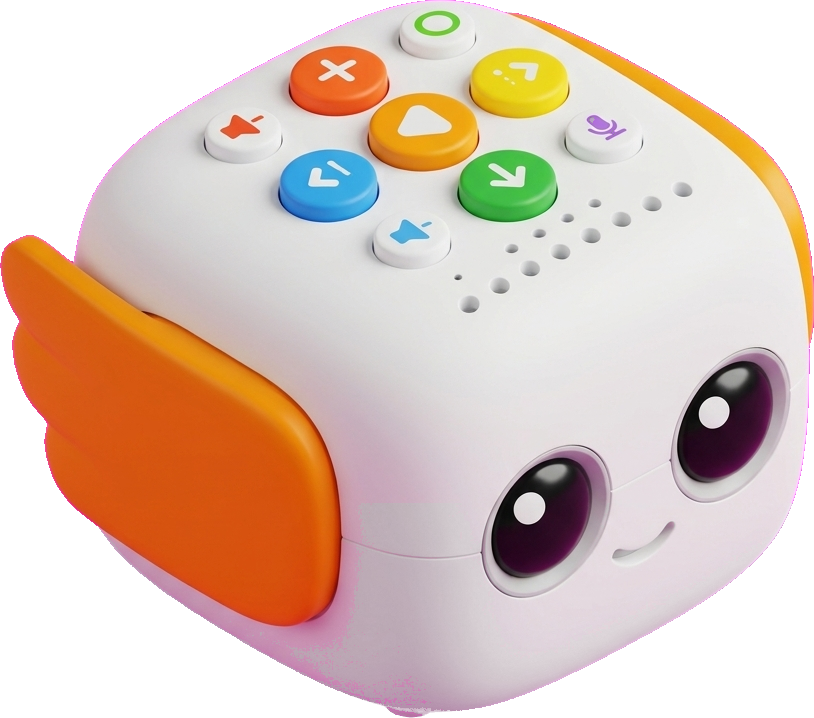
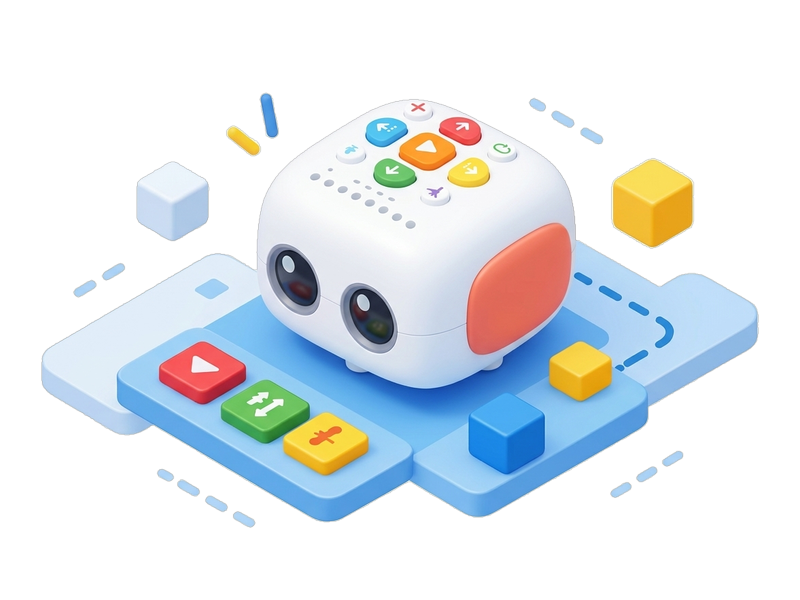
feat(art): apply Robòtica²⁰⁰ master style prompt with modular platform to Tale-Bot

diff --git a/robots/index.html b/robots/index.html
@@ -27,7 +27,7 @@
         </div>
       </div>
       <div class="robots-hero-media">
-        <img src="../_assets/banners/robots.jpg" alt="Robots d'Aula" class="robots-hero-img" width="800" height="600">
+        <img src="../_assets/banners/robotica.png" alt="Robots d'Aula" class="robots-hero-img" width="800" height="600">
       </div>
     </div>
   </div>

diff --git a/_css/styles.css b/_css/styles.css
@@ -807,8 +807,6 @@ guide-page {
   max-width: 100%;
   max-height: 280px;
   width: auto;
-  border-radius: 20px;
-  box-shadow: 0 10px 30px rgba(0, 0, 0, 0.07);
   object-fit: contain;
 }
 

diff --git a/STYLE_GUIDE.md b/STYLE_GUIDE.md
@@ -84,12 +84,71 @@ La identitat visual dels robots es defineix com una **il·lustració 3D isomètr
 8. **Fondo gráfico abstracto / Transparente:** En la web, el fondo de la imagen se aísla con canal alfa 100% transparente para montarse limpiamente sobre los fondos bicolores CSS.
 9. **Estética edtech contemporánea:** Lenguaje visual que recuerda a las ilustraciones de productos tecnológicos educativos punteros y landing pages de startups de tecnología y diseño (estilo Stripe / Linear / Duolingo / Vercel Kids).
 
-### 📝 Fórmula de Prompt Condensada (Estàndard Oficial):
+### 📝 Prompt Mestre d'Estil Robòtica²⁰⁰:
+
+Per mantenir **consistència estricta entre totes les il·lustracions**, el prompt es divideix en un **bloc fix d'estil** i un **bloc variable per al robot i la seva escena**:
+
 ```text
-Stylized 3D isometric educational robotics illustration of [Nom del Robot], cute toy-like robots, rounded geometry, simplified low-poly forms, matte plastic materials, soft studio lighting, vibrant solid colors, subtle shadows, isolated on solid white studio background, modern edtech aesthetic.
+Create a polished 3D isometric educational robotics illustration.
+
+STYLE:
+Stylized 3D toy-like illustration with a friendly modern edtech aesthetic.
+Soft low-poly geometry with rounded, carefully beveled edges.
+Cute, approachable proportions, but not childish or cartoonish.
+Objects should look like high-quality educational robotics kits made from
+smooth matte plastic.
+
+Use clean geometric shapes, simplified forms and subtle surface details.
+Soft studio lighting with diffuse illumination, gentle ambient occlusion,
+soft contact shadows and subtle highlights.
+No photorealism, no metallic realism, no complex textures.
+
+COMPOSITION:
+Isometric / axonometric perspective, viewed from a slightly elevated angle.
+The main robot is the clear focal point, centered or slightly off-center.
+Place the robot on a small layered isometric platform or modular base.
+Add a few simple educational elements around it: blocks, programming tiles,
+sensors, arrows, paths, gears or other objects related to the robot.
+
+Use depth through overlapping objects and multiple platform levels.
+Keep the composition compact, balanced and readable at small sizes.
+Leave generous negative space around the illustration.
+
+COLORS:
+Use a clean, bright educational palette.
+Main colors should be vivid but slightly softened rather than neon.
+White and very light neutral surfaces for the robot,
+combined with 2–3 strong accent colors.
+Use the robot's real-world brand colors when appropriate.
+
+BACKGROUND:
+Transparent background.
+No room, no environment, no horizon, no scenery.
+Only the illustrated objects and their isometric platform should remain visible.
+
+LIGHTING:
+Soft diffuse studio lighting.
+Subtle glow and atmospheric softness around the edges.
+Soft shadows underneath objects.
+Clean separation between overlapping forms.
+
+VISUAL LANGUAGE:
+Modern educational technology.
+Premium children's STEM / robotics product illustration.
+Friendly, intelligent, playful and technological.
+Clean enough to work as a website card illustration.
+Consistent visual language across a complete family of six robotics
+illustrations.
+
+NO TEXT, NO LETTERS, NO LOGOS, NO WATERMARKS.
 ```
 
-> 💡 **Nota clau d'identitat:** No és un disseny infantil genèric: la combinació d'isometria precisa, bisells nets i geometria modular dota al conjunt d'un caràcter tècnic i professional adequat tant per a mestres d'Infantil com de Secundària.
+### ⚡ Fórmula Curta Oficial ("Estil Robòtica²⁰⁰"):
+```text
+Polished 3D isometric educational robotics illustration, stylized toy-like low-poly geometry, rounded beveled forms, matte plastic materials, soft diffuse studio lighting, gentle ambient occlusion, clean geometric shapes, vivid but softened STEM colors, compact modular isometric platform, friendly modern edtech aesthetic, transparent background, no text or logos.
+```
+
+Després d'aquesta base d'estil s'especifica el bloc `SUBJECT:` amb el robot i els elements educatius modulars que l'envolten.
 
 ---
 

diff --git a/AGENTS.md b/AGENTS.md
@@ -14,8 +14,8 @@
   - Colors sòlids i vibrants (paletes binàries netes).
   - Il·luminació difusa de fons d'estudi amb ombres suaus de volum.
   - Identitat tècnica i educativa (no és un simple dibuix animat infantil, té caràcter STEAM).
-- **📝 Fórmula Oficial de Prompt:**
-  `Stylized 3D isometric educational robotics illustration of [Nom], cute toy-like robots, rounded geometry, simplified low-poly forms, matte plastic materials, soft studio lighting, vibrant solid colors, subtle shadows, isolated on solid white background, modern edtech aesthetic.`
+- **📝 Fórmula Oficial de Prompt ("Estil Robòtica²⁰⁰"):**
+  `Polished 3D isometric educational robotics illustration, stylized toy-like low-poly geometry, rounded beveled forms, matte plastic materials, soft diffuse studio lighting, gentle ambient occlusion, clean geometric shapes, vivid but softened STEM colors, compact modular isometric platform, friendly modern edtech aesthetic, transparent background, no text or logos. [SUBJECT: descripció del robot i elements educatius que l'envolten]`
 - **2 Imatges Obligatòries per Robot (Format PNG Transparent):**
   1. **Robot Complet (`_assets/robots/[robot].png`):** Model 3D isomètric complet, perspectiva 3/4. **Canal alfa 100% transparent**.
   2. **Icona Abstracta d'Essència (`_assets/icons/[robot].png`):** Síntesi geomètrica minimalista (512 × 512 px) que capta l'essència icònica amb molt pocs detalls. **Canal alfa 100% transparent**.
